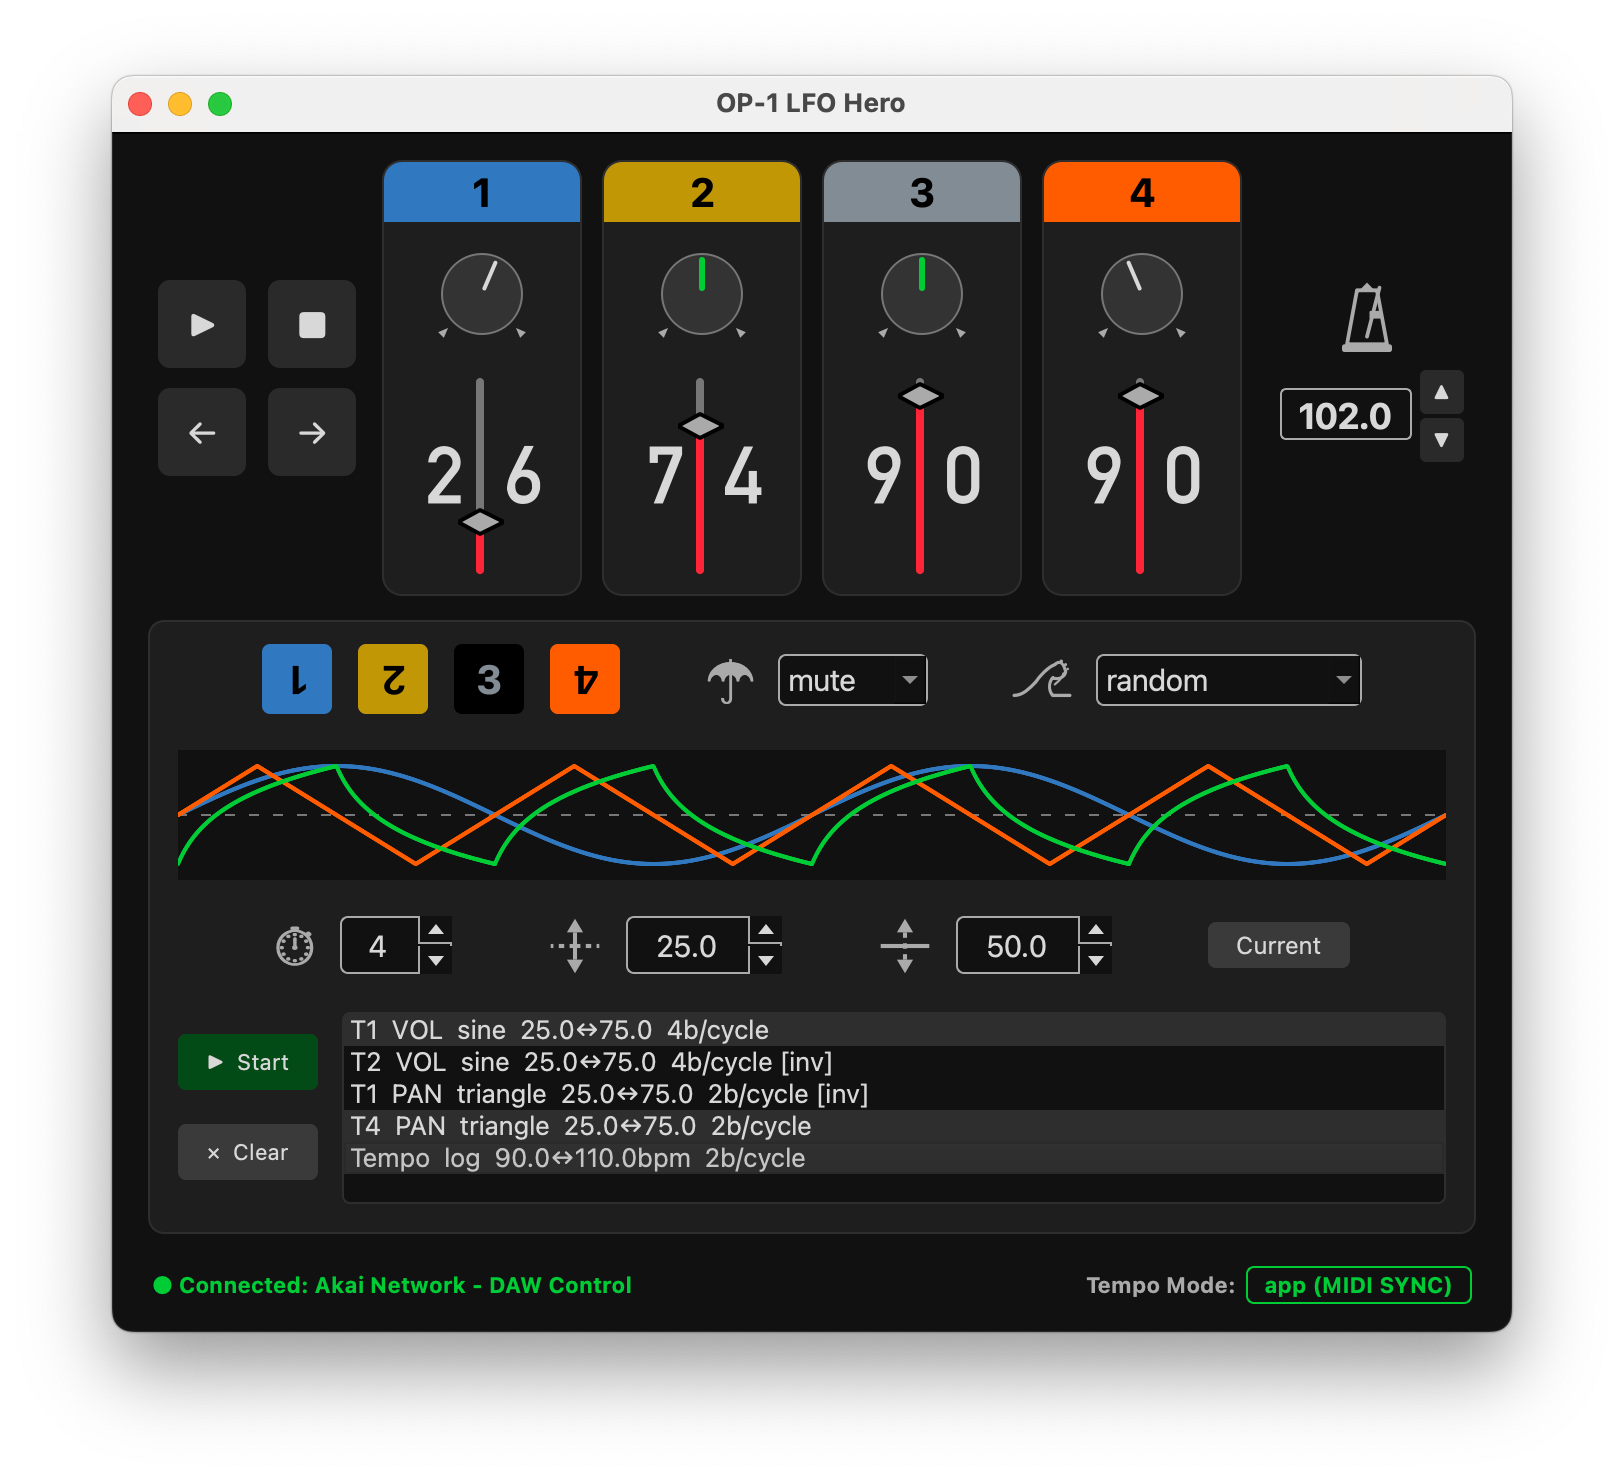
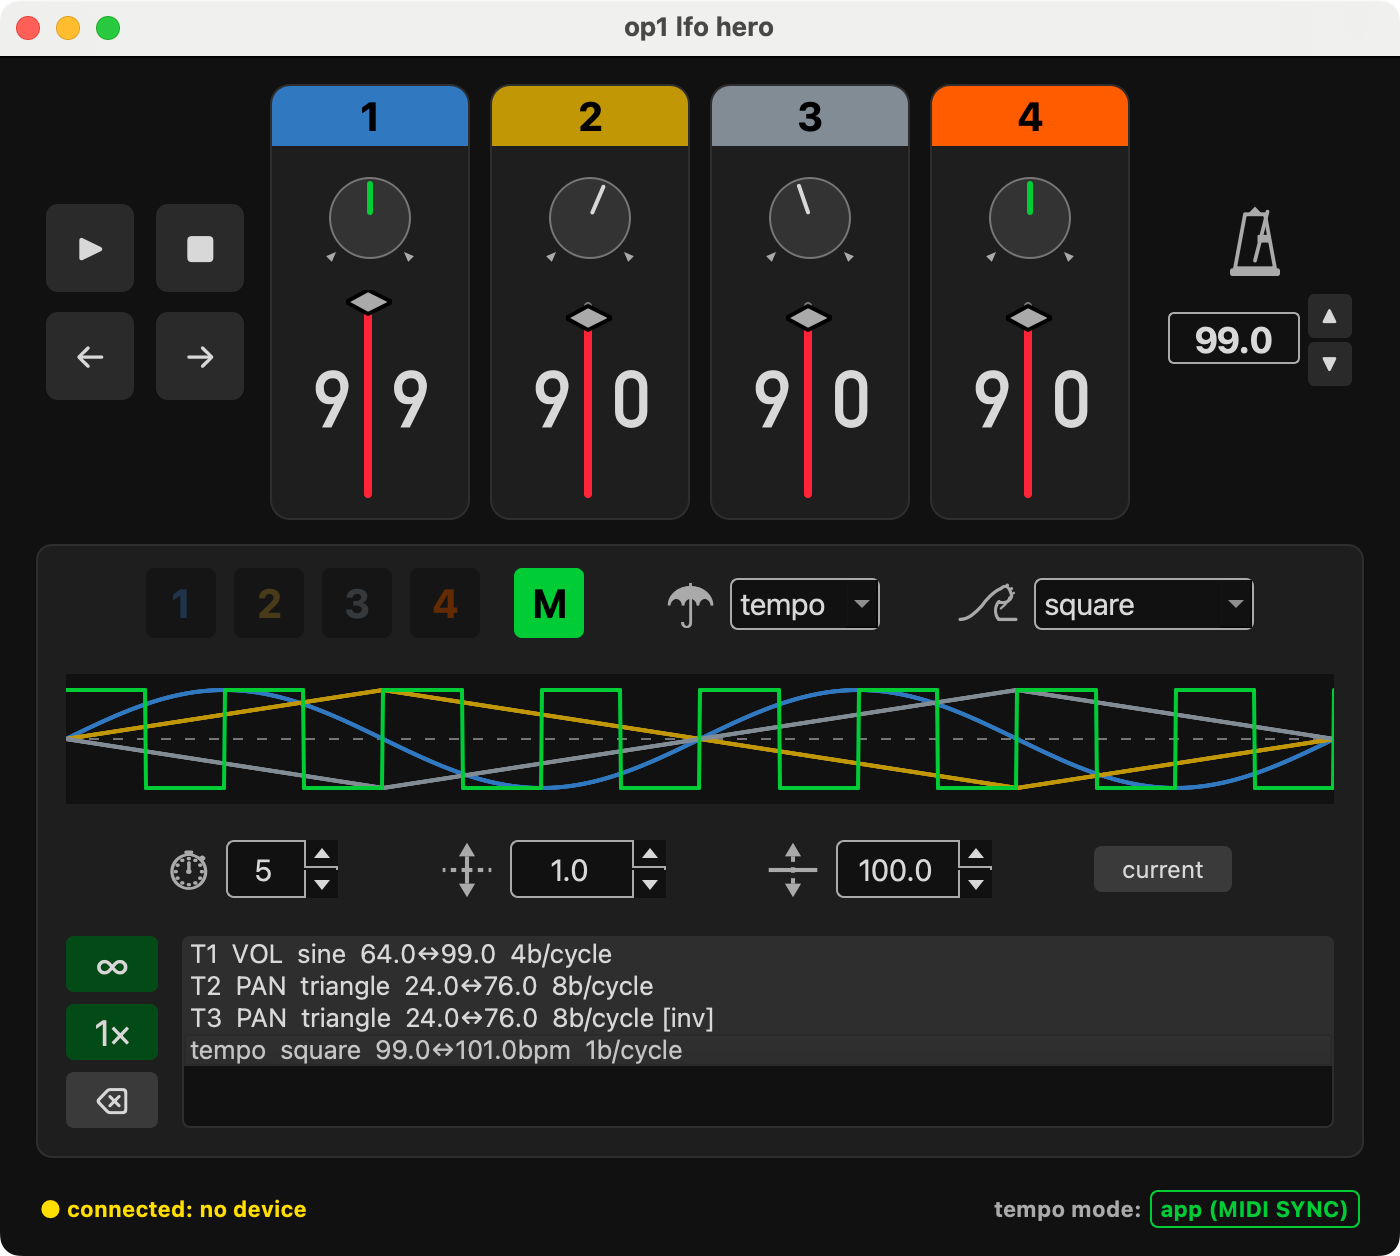
v1.1.1 - 1-shot curve/button; UI stuff; new ideas

diff --git a/src/ui.py b/src/ui.py
@@ -15,7 +15,7 @@ from PyQt6.QtWidgets import (
     QListWidget, QListWidgetItem,
 )
 from PyQt6.QtCore import Qt, QObject, pyqtSignal, QPointF, QRectF, QSize, QTimer
-from PyQt6.QtGui import QFont, QColor, QPainter, QPen, QPolygonF
+from PyQt6.QtGui import QFont, QColor, QPainter, QPen, QPolygonF, QIcon
 from PyQt6.QtSvg import QSvgRenderer
 
 from src.controller import Controller, CC_VOLUME, CC_MUTE, CC_PAN
@@ -72,9 +72,10 @@ _METRONOME_SVG  = _ASSETS + "metronome.svg"
 _DEPTH_SVG      = _ASSETS + "depth.svg"
 _CENTER_SVG     = _ASSETS + "center.svg"
 _WAVE_SVG       = _ASSETS + "wave.svg"
+_LOOP_SVG       = _ASSETS + "loop.svg"
 
 # OTHER - UI CONSTRAINTS
-_LABEL_GAP  = 12  # px between a label and its paired control (dropdown, spinbox, etc.)
+_LABEL_GAP  = 8  # px between a label and its paired control (dropdown, spinbox, etc.)
 _ICON_PT    = 26  # pt size for unicode icon labels
 
 
@@ -193,6 +194,7 @@ class ClockBridge(QObject):
     cc_received       = pyqtSignal(int, int, int)
     disconnected      = pyqtSignal()
     reconnected       = pyqtSignal()
+    lfo_finished      = pyqtSignal(object)
 
 
 # ---------------------------------------------------------------------------
@@ -937,25 +939,35 @@ class LfoPanel(QFrame):
         btn_col.setSpacing(6)
         btn_col.setContentsMargins(0, 0, 0, 0)
 
-        start_btn = QPushButton("▶  Start")
-        start_btn.setFixedHeight(28)
-        start_btn.setStyleSheet(
+        loop_btn = QPushButton("∞")
+        loop_btn.setFixedHeight(28)
+        loop_btn.setStyleSheet(
             f"QPushButton {{ background-color: {_DARKGREEN}; color: {_TEXT};"
-            f"  border: none; border-radius: 4px; font-size: 11pt; padding: 0px 14px; }}"
+            f"  border: none; border-radius: 4px; font-size: 18pt; padding: 0px 14px; }}"
             f"QPushButton:hover {{ background-color: #2a6a2a; }}"
         )
-        start_btn.clicked.connect(self._on_start)
+        loop_btn.clicked.connect(self._on_start)
 
-        clear_btn = QPushButton("✕  Clear")
+        oneshot_btn = QPushButton("1×")
+        oneshot_btn.setFixedHeight(28)
+        oneshot_btn.setStyleSheet(
+            f"QPushButton {{ background-color: {_DARKGREEN}; color: {_TEXT};"
+            f"  border: none; border-radius: 4px; font-size: 18pt; padding: 0px 14px; }}"
+            f"QPushButton:hover {{ background-color: #2a6a2a; }}"
+        )
+        oneshot_btn.clicked.connect(self._on_start_oneshot)
+
+        clear_btn = QPushButton("⌫")
         clear_btn.setFixedHeight(28)
         clear_btn.setStyleSheet(
             f"QPushButton {{ background-color: {_HOVER}; color: {_TEXT};"
-            f"  border: none; border-radius: 4px; font-size: 11pt; padding: 0px 14px; }}"
+            f"  border: none; border-radius: 4px; font-size: 18pt; padding: 0px 14px; }}"
             f"QPushButton:hover {{ background-color: {_KNOB_RIM}; }}"
         )
         clear_btn.clicked.connect(self._on_stop_all)
 
-        btn_col.addWidget(start_btn)
+        btn_col.addWidget(loop_btn)
+        btn_col.addWidget(oneshot_btn)
         btn_col.addWidget(clear_btn)
 
         self._lfo_list = QListWidget()
@@ -1144,6 +1156,12 @@ class LfoPanel(QFrame):
         self._center_spin.setValue(_midi_to_ui(midi_val))
 
     def _on_start(self) -> None:
+        self._start(loop=True)
+
+    def _on_start_oneshot(self) -> None:
+        self._start(loop=False)
+
+    def _start(self, loop: bool) -> None:
         param      = PARAMETER_LABELS[self._param_combo.currentText()]
         wave       = LFO_WAVE_LABELS[self._wave_combo.currentText()]
         rate_ticks = _RATE_TICKS[self._rate_spin.value()]
@@ -1165,6 +1183,7 @@ class LfoPanel(QFrame):
                 depth        = self._depth_spin.value(),
                 center_value = self._center_spin.value(),
                 inverted     = self._master_btn.state == 2,
+                loop         = loop,
             )
             self._engine.add_lfo(lfo)
             self._active_lfos.append(lfo)
@@ -1183,6 +1202,7 @@ class LfoPanel(QFrame):
                 depth        = depth,
                 center_value = center_value,
                 inverted     = self._master_btn.state == 2,
+                loop         = loop,
             )
             self._engine.add_lfo(lfo)
             self._active_lfos.append(lfo)
@@ -1203,10 +1223,20 @@ class LfoPanel(QFrame):
                 depth        = depth,
                 center_value = center_value,
                 inverted     = btn.state == 2,
+                loop         = loop,
             )
             self._engine.add_lfo(lfo)
             self._active_lfos.append(lfo)
         self._refresh_list()
+
+    def _on_lfo_finished(self, lfo: object) -> None:
+        """Called on the Qt main thread when a one-shot LFO completes."""
+        try:
+            self._active_lfos.remove(lfo)
+        except ValueError:
+            pass
+        self._refresh_list()
+        self._maybe_restore_bpm()
 
     def _lfo_list_key_press(self, event) -> None:
         if event.key() in (Qt.Key.Key_Delete, Qt.Key.Key_Backspace):
@@ -1246,11 +1276,12 @@ class LfoPanel(QFrame):
                 rate_str = f"{lfo.rate_ticks // PPQN}b/cycle"
             else:
                 rate_str = f"{PPQN // lfo.rate_ticks}x/beat"
+            loop_str = "" if lfo.loop else " [1×]"
             if lfo.parameter is Parameter.TEMPO:
                 lo = max(20,  lfo.center_value - lfo.depth)
                 hi = min(300, lfo.center_value + lfo.depth)
                 self._lfo_list.addItem(QListWidgetItem(
-                    f"tempo  {lfo.wave.value}  {lo:.1f}↔{hi:.1f}bpm  {rate_str}"
+                    f"tempo  {lfo.wave.value}  {lo:.1f}↔{hi:.1f}bpm  {rate_str}{loop_str}"
                 ))
             else:
                 lo = _midi_to_ui(max(0,   lfo.center_value - lfo.depth))
@@ -1259,7 +1290,7 @@ class LfoPanel(QFrame):
                 track_str = "M" if lfo.track == 0 else f"T{lfo.track}"
                 self._lfo_list.addItem(QListWidgetItem(
                     f"{track_str}  {lfo.parameter.value.upper()[:3]}  "
-                    f"{lfo.wave.value}  {lo:.1f}↔{hi:.1f}  {rate_str}{inv_str}"
+                    f"{lfo.wave.value}  {lo:.1f}↔{hi:.1f}  {rate_str}{inv_str}{loop_str}"
                 ))
 
     def set_tempo_available(self, available: bool) -> None:
@@ -1309,6 +1340,7 @@ class MainWindow(QMainWindow):
         bridge.cc_received.connect(self._on_cc_received)
         bridge.disconnected.connect(self._on_disconnected)
         bridge.reconnected.connect(self._on_reconnected)
+        bridge.lfo_finished.connect(self._lfo_panel._on_lfo_finished)
 
     _NO_DEVICE = "no device"
 

diff --git a/src/automation.py b/src/automation.py
@@ -177,7 +177,7 @@ def lfo_wave_value(phase: float, wave: LfoWave) -> float:
 
 @dataclass
 class LfoClip:
-    """Continuously oscillating automation — always loops."""
+    """Continuously oscillating automation."""
     track: int          # 1-4
     parameter: Parameter
     wave: LfoWave
@@ -185,6 +185,7 @@ class LfoClip:
     depth: int | float          # oscillation half-amplitude (MIDI units or BPM for Tempo)
     center_value: int | float   # MIDI center (0-127) or BPM for Tempo
     inverted: bool = False
+    loop: bool = True           # False = one-shot: auto-removed after one full cycle
     _random_prev_phase: float = field(default=-1.0, init=False, repr=False)
     _random_value: float = field(default=0.0, init=False, repr=False)
 
@@ -221,9 +222,11 @@ class AutomationEngine:
         self,
         controller: Controller,
         update_callback: AutomationUpdateCallback | None = None,
+        lfo_finished_callback: Callable[[LfoClip], None] | None = None,
     ) -> None:
         self._ctrl = controller
         self._update_cb = update_callback
+        self._lfo_finished_cb = lfo_finished_callback
         self._lock = threading.Lock()
         self._clips: list[Clip] = []
 
@@ -234,6 +237,8 @@ class AutomationEngine:
 
         self._lfos: list[LfoClip] = []
         self._lfo_last_sent: dict[int, int] = {}
+        # id(lfo) → tick_count at which that lfo's first tick was processed
+        self._lfo_start_ticks: dict[int, int] = {}
 
     # ------------------------------------------------------------------
     # Clip management — call from any thread
@@ -276,6 +281,7 @@ class AutomationEngine:
         with self._lock:
             self._lfos = [l for l in self._lfos if l is not lfo]
             self._lfo_last_sent.pop(id(lfo), None)
+            self._lfo_start_ticks.pop(id(lfo), None)
 
     def remove_lfos_by_track(self, track: int) -> None:
         with self._lock:
@@ -283,11 +289,13 @@ class AutomationEngine:
             self._lfos = [l for l in self._lfos if l.track != track]
             for l in gone:
                 self._lfo_last_sent.pop(id(l), None)
+                self._lfo_start_ticks.pop(id(l), None)
 
     def clear_lfos(self) -> None:
         with self._lock:
             self._lfos.clear()
             self._lfo_last_sent.clear()
+            self._lfo_start_ticks.clear()
 
     @property
     def lfos(self) -> list[LfoClip]:
@@ -309,8 +317,21 @@ class AutomationEngine:
             if done:
                 finished.append(clip)
 
+        finished_lfos: list[LfoClip] = []
         for lfo in lfos:
-            self._evaluate_lfo(lfo, tick_count)
+            done = self._evaluate_lfo(lfo, tick_count)
+            if done:
+                finished_lfos.append(lfo)
+
+        if finished_lfos:
+            with self._lock:
+                for lfo in finished_lfos:
+                    self._lfos = [l for l in self._lfos if l is not lfo]
+                    self._lfo_last_sent.pop(id(lfo), None)
+                    self._lfo_start_ticks.pop(id(lfo), None)
+            if self._lfo_finished_cb:
+                for lfo in finished_lfos:
+                    self._lfo_finished_cb(lfo)
 
         if finished:
             with self._lock:
@@ -378,11 +399,27 @@ class AutomationEngine:
         if self._update_cb:
             self._update_cb(clip.track, clip.parameter, value)
 
-    def _evaluate_lfo(self, lfo: LfoClip, tick_count: int) -> None:
+    def _evaluate_lfo(self, lfo: LfoClip, tick_count: int) -> bool:
+        """Evaluate one LFO tick. Returns True if the LFO is finished (one-shot complete)."""
         rate = lfo.rate_ticks * LFO_RATE_MULTIPLIERS.get(lfo.wave, 1)
-        phase = (tick_count % rate) / rate
+
+        if not lfo.loop:
+            lfo_id = id(lfo)
+            with self._lock:
+                if lfo_id not in self._lfo_start_ticks:
+                    self._lfo_start_ticks[lfo_id] = tick_count
+                start = self._lfo_start_ticks[lfo_id]
+            elapsed = tick_count - start
+            duration = 8 * PPQN  # matches the 8-beat preview window
+            if elapsed >= duration:
+                return True
+            phase = (elapsed % rate) / rate
+        else:
+            phase = (tick_count % (8 * PPQN)) / rate
+
         value = lfo.value_at(phase)
         self._send_lfo_if_changed(lfo, value)
+        return False
 
     def _send_lfo_if_changed(self, lfo: LfoClip, value: int | float) -> None:
         lfo_id = id(lfo)

diff --git a/src/app.py b/src/app.py
@@ -83,7 +83,15 @@ def main() -> None:
         # Runs on the clock daemon thread — only emit signals here.
         bridge.automation_update.emit(track, param.value, float(value))
 
-    engine = AutomationEngine(controller, update_callback=on_automation_update)
+    def on_lfo_finished(lfo) -> None:
+        # Runs on the clock daemon thread — only emit signals here.
+        bridge.lfo_finished.emit(lfo)
+
+    engine = AutomationEngine(
+        controller,
+        update_callback=on_automation_update,
+        lfo_finished_callback=on_lfo_finished,
+    )
 
     def on_beat(beat_num: int) -> None:
         bridge.beat.emit(beat_num)

diff --git a/notes/FEATURES.md b/notes/FEATURES.md
@@ -1,8 +1,11 @@
 # Features
 
 ## To do
+- [ ] Generic MIDI device support: allow the app to connect to any MIDI device, not just OP-1s. Remove the OP-1 keyword filter from port detection; let the user pick a port from a list. Disable or hide OP-1-specific features (tape scrub, octave shift, BLE detection) when a non-OP-1 device is selected.
 - [ ] Narrow layout: reduce overall app width by ~25% (e.g. 400px → 300px). Shrink: track column widths (mute button, pan knob, volume fader), waveform preview, Start/Stop buttons, active LFOs list, and all horizontal padding between elements.
-- [ ] One-shot LFOs: add a `loop` flag to `LfoClip` (default true). When false, the engine auto-removes the LFO after one full cycle. UI: add a **×1** button directly below the Start button, same style as Start. In the active LFOs list, looping clips show no marker; one-shot clips show `[×1]` next to the name and disappear automatically when the cycle completes.
+- [ ] Desktop executables: package the app as a standalone binary for macOS and Windows using PyInstaller (or similar), so users can run it without a Python environment.
+- [ ] GitHub Actions release workflow: on GitHub release publish, automatically build the macOS and Windows executables and upload them as release artifacts. Triggered by the `release: published` event; one job per platform using hosted runners.
+- [ ] iOS port: refactor the UI layer to run on iOS (e.g. via Kivy, BeeWare/Toga, or a web-based frontend). Keep the existing PyQt6 desktop path intact so the app can still be launched from Python; the iOS target should share the core engine (`automation.py`, `clock.py`, `controller.py`) and add a separate UI entry point.
 - [ ] Automation / fader conflict: manually moving a fader while automation is running should cancel that automation clip
 - [ ] Preset saving: save/load slider positions and automation clips as JSON
 
@@ -46,3 +49,4 @@
 - [x] Master LFO support: **M** button added to the LFO panel (green, same 3-state style as tracks). Selecting a master param (tempo) disables track 1-4 buttons and enables M; M auto-activates to "on" state. Second click inverts the curve, third click turns M off — identical behavior to per-track buttons. `_MASTER_PARAMS` frozenset makes adding future master params (master volume, compression) a one-line change.
 - [x] Master FX params: add OP-1 MIDI CC params for master FX controls (see OP-1 MIDI spec)
 - [x] Master volume + compression params: add OP-1 MIDI CC params for master volume and master compression (see OP-1 MIDI spec)
+- [x] One-shot LFOs: `loop` flag on `LfoClip` (default true). When false, the engine auto-removes the LFO after one full cycle. UI: **1×** button directly below Loop, same style. Active LFOs list: looping clips show no marker; one-shot clips show `[×1]` and disappear automatically when the cycle completes.